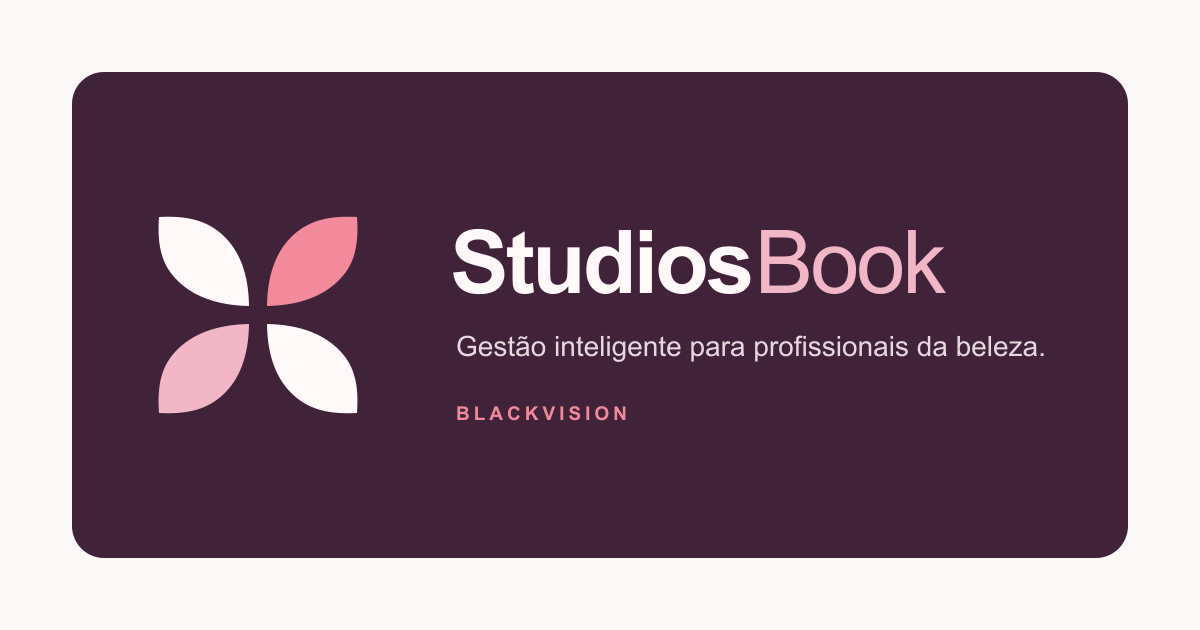
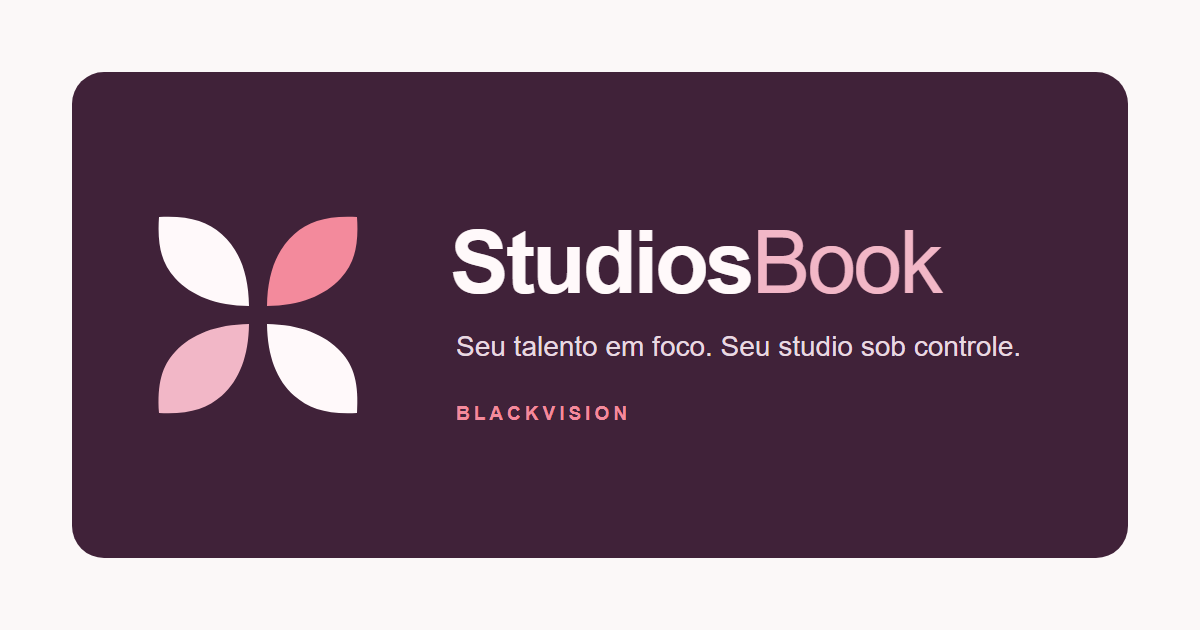
Update StudiosBook pricing and opening slogan

diff --git a/src/App.jsx b/src/App.jsx
@@ -61,7 +61,7 @@ const BillingSubscription = base44.entities.BillingSubscription;
 
 const PRODUCT_NAME = "StudiosBook";
 const PRODUCT_COMPANY = "BlackVision";
-const PRODUCT_PRICE = "R$ 19,90/mês";
+const PRODUCT_PRICE = "R$ 26,90/mês";
 const OFFICIAL_APP_URL = "https://studiosbook.com.br";
 const SUPPORT_EMAIL = "getblackvision.br@gmail.com";
 const SUPPORT_PHONE = "73981068594";
@@ -2201,7 +2201,7 @@ function LoginScreen({ onLogin, feedback, feedbackType, actionLoading }) {
     <div className="min-h-screen bg-[#f6f1ef] px-5 py-10 text-zinc-950">
       <div className="mx-auto grid min-h-[calc(100vh-5rem)] max-w-6xl items-center gap-10 lg:grid-cols-[0.9fr_1.1fr]">
         <div>
-          <BrandLockup size="hero" heading subtitle="Gestão inteligente para profissionais da beleza" />
+          <BrandLockup size="hero" heading subtitle="Seu talento em foco. Seu studio sob controle." />
           <div className="mt-7 flex w-fit items-center gap-2 rounded-full border border-rose-200 bg-white px-4 py-2 text-sm font-black text-rose-800 shadow-sm">
             <Lock className="h-4 w-4" />
             Agenda privada
@@ -3301,7 +3301,7 @@ function BillingView({
         <Panel>
           <PanelHeader
             title="Cartão recorrente"
-            subtitle="Autorize uma vez e o Mercado Pago processa R$ 19,90 mensalmente."
+            subtitle="Autorize uma vez e o Mercado Pago processa R$ 26,90 mensalmente."
           />
           <div className="mt-5 grid gap-4">
             {[
@@ -3331,7 +3331,7 @@ function BillingView({
         <Panel>
           <PanelHeader
             title="Pagamento por Pix"
-            subtitle="Pagamento avulso de R$ 19,90 que libera 30 dias após a aprovação."
+            subtitle="Pagamento avulso de R$ 26,90 que libera 30 dias após a aprovação."
           />
           <div className="mt-5 grid gap-3">
             <label className="grid gap-2 text-sm font-black text-zinc-700">
@@ -3355,7 +3355,7 @@ function BillingView({
               className="h-12 w-full rounded-full bg-emerald-600 px-4 text-white hover:bg-emerald-700"
             >
               <QrCode className="mr-2 h-4 w-4" />
-              {actionLoading === "billing-pix" ? "Gerando Pix..." : "Gerar Pix de R$ 19,90"}
+              {actionLoading === "billing-pix" ? "Gerando Pix..." : "Gerar Pix de R$ 26,90"}
             </Button>
           </div>
 

diff --git a/railway-backend/src/server.js b/railway-backend/src/server.js
@@ -25,7 +25,7 @@ const app = express();
 const MP_API = "https://api.mercadopago.com";
 const PRODUCT_NAME = "StudiosBook";
 const PLAN_NAME = "StudiosBook Intermediário";
-const MONTHLY_AMOUNT = 19.9;
+const MONTHLY_AMOUNT = 26.9;
 const FIREBASE_PROJECT_ID = process.env.FIREBASE_PROJECT_ID || "blackvision-27f1c";
 const PUBLIC_APP_URL = process.env.PUBLIC_APP_URL || "https://studiosbook.com.br";
 const PUBLIC_API_URL =

diff --git a/README.md b/README.md
@@ -80,8 +80,8 @@ FIREBASE_PRIVATE_KEY=private_key_da_service_account
 ## Cobrança e webhooks
 
 - Os 7 dias de teste começam na data de criação da conta no Firebase Auth.
-- Cartão usa assinatura recorrente mensal de R$ 19,90.
-- Pix usa pagamento avulso de R$ 19,90 e libera 30 dias após aprovação.
+- Cartão usa assinatura recorrente mensal de R$ 26,90.
+- Pix usa pagamento avulso de R$ 26,90 e libera 30 dias após aprovação.
 - URL do webhook: `https://studiosbook-api-production.up.railway.app/functions/mercado-pago-webhook`
 - Eventos necessários no Mercado Pago: `payment`, `subscription_preapproval` e `subscription_authorized_payment`.
 - A chave exibida em `Suas integrações > Webhooks` deve ser salva como `MERCADO_PAGO_WEBHOOK_SECRET` no Railway.
